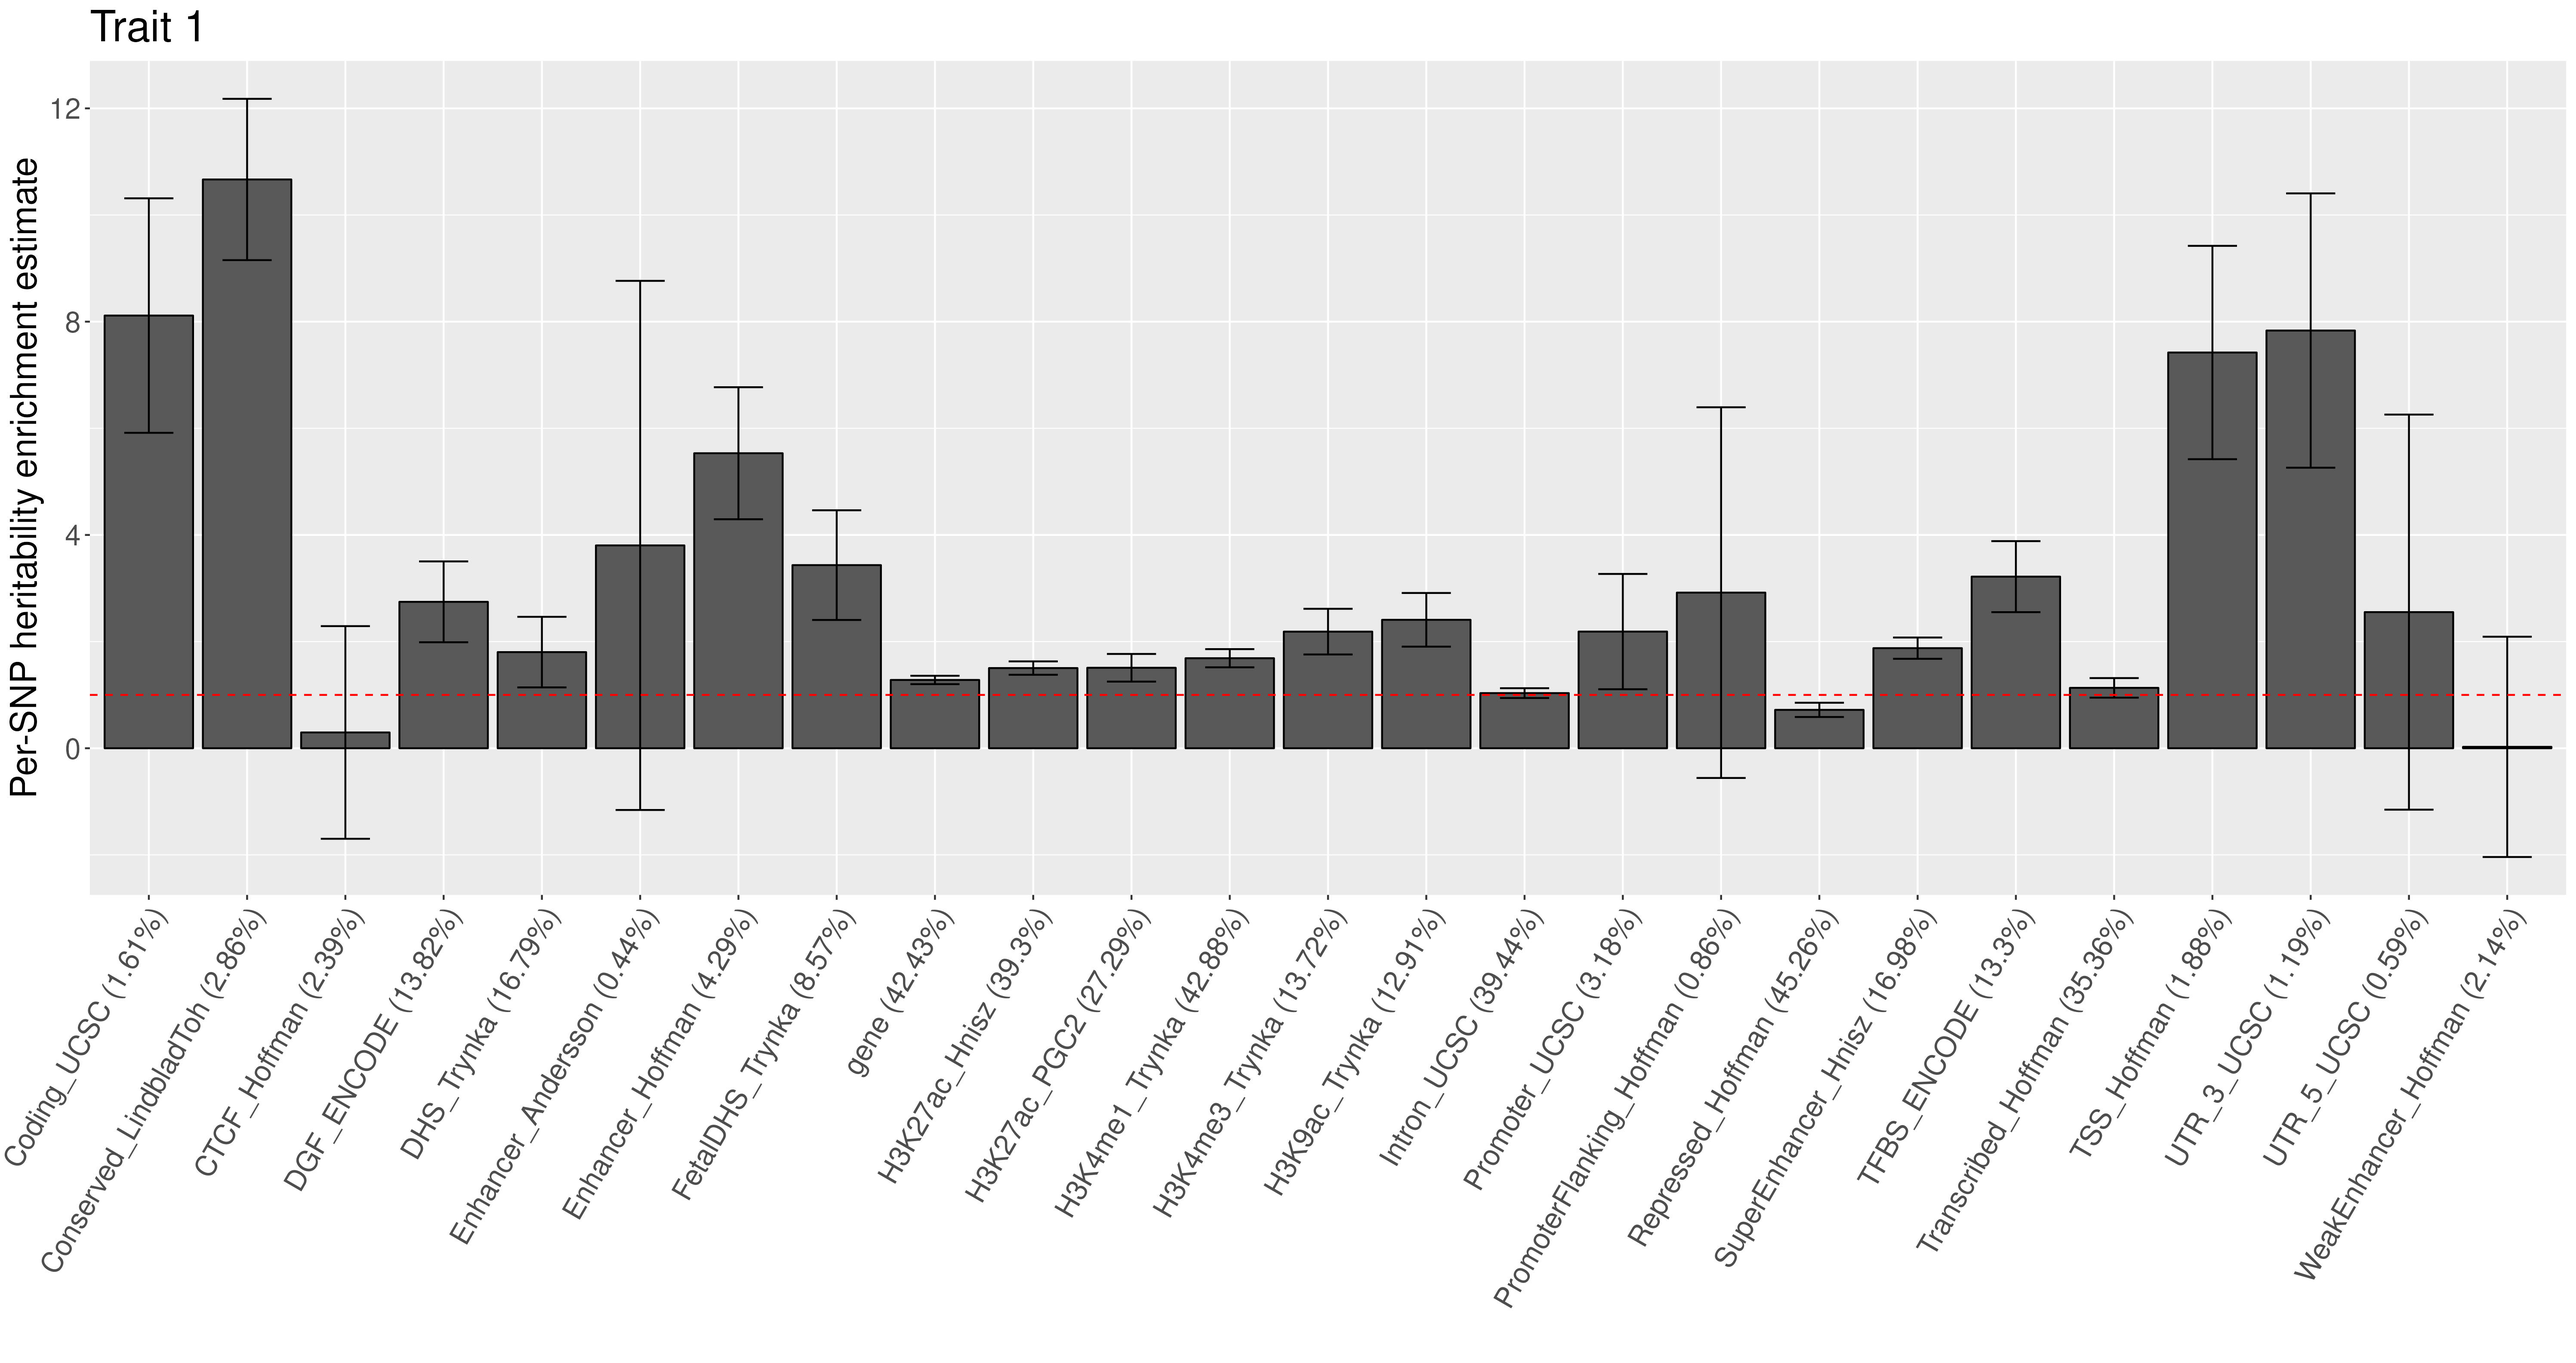
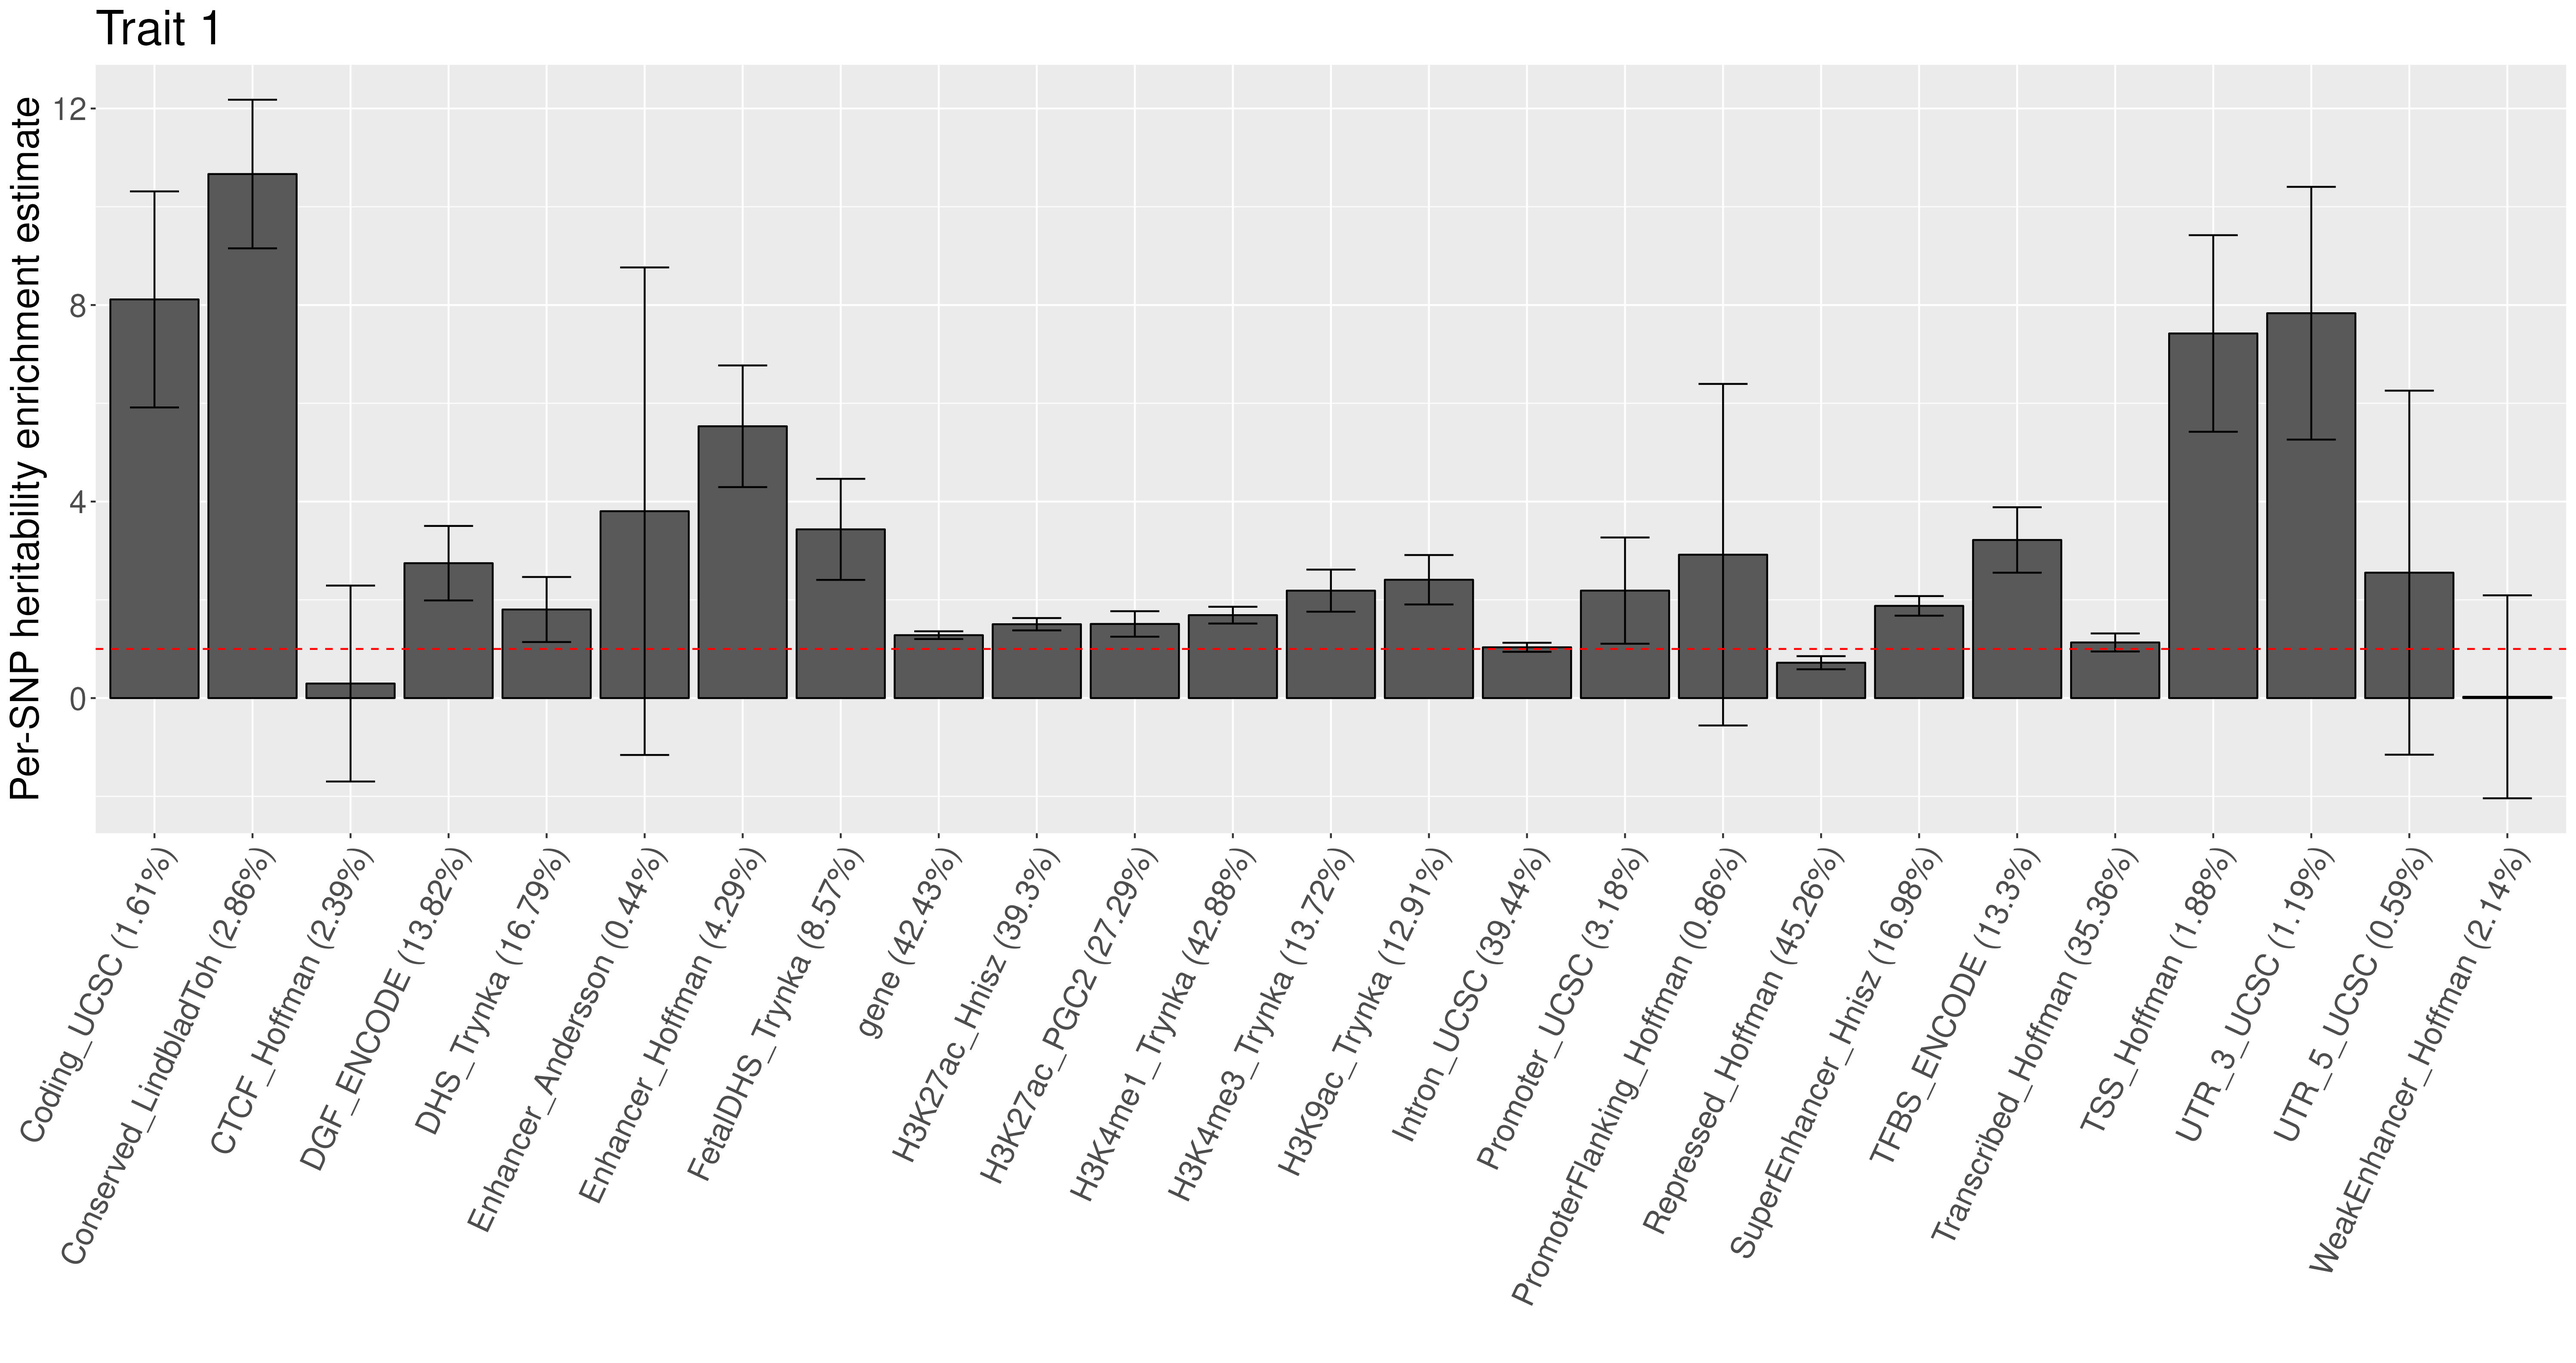
gh-pages

diff --git a/docs/site/examples/index.html b/docs/site/examples/index.html
@@ -281,7 +281,7 @@ p&lt;- ggplot(df, aes(x=FunctionalAnnotation, y=Enrichment)) +
   geom_bar(stat=&quot;identity&quot;, color=&quot;black&quot;, 
            position=position_dodge()) +
   geom_errorbar(aes(ymin=Enrichment-SE, ymax=Enrichment+SE), width=.5, position=position_dodge(.9)) 
-p&lt;- p + theme(text = element_text(size=20), axis.text.x = element_text(angle = 60, vjust = 1, hjust=1))
+p&lt;- p + theme(text = element_text(size=22), axis.text.x = element_text(angle = 65, vjust = 1, hjust=1))
 p&lt;- p+ geom_hline(yintercept=1, linetype=&quot;dashed&quot;, color = &quot;red&quot;) + xlab(&quot;&quot;) + ylab(&quot;Per-SNP heritability enrichment estimate&quot;) + ggtitle(&quot;Trait 1&quot;)
 p
 </code></pre>

diff --git a/docs/site/index.html b/docs/site/index.html
@@ -270,5 +270,5 @@
 
 <!--
 MkDocs version : 1.5.3
-Build Date UTC : 2023-10-24 20:37:01.971860+00:00
+Build Date UTC : 2023-10-24 20:49:11.647881+00:00
 -->
